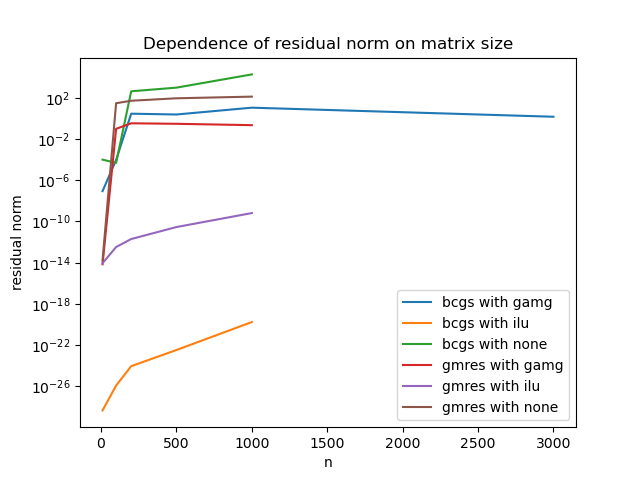
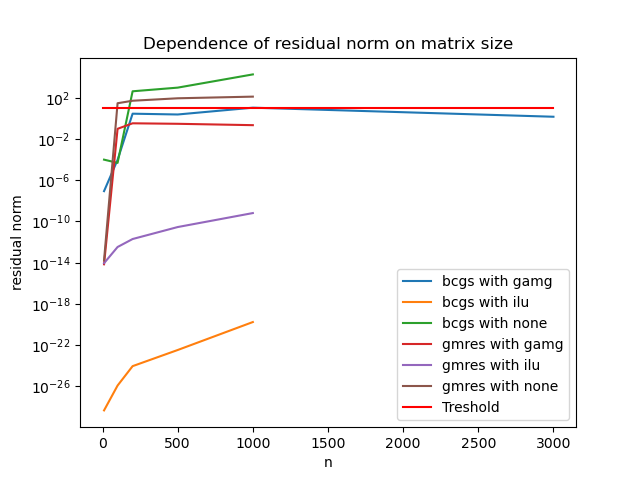
Bug fix

diff --git a/display_results.py b/display_results.py
@@ -83,25 +83,30 @@ def get_title(prop):
         title = "residual norm"
     return title
 
-def draw_results_changing_n(plot_data, logscale=True):
+def draw_results_changing_n(plot_data, logscale=True,treshold=True):
     for prop in ["time","num_of_iterations","residual_norm"]:
         title=get_title(prop)
+        max_n=0
         for item in plot_data:
             data = item["data"]
-            if logscale:
-                plt.yscale("log")
             tmp_dict={el["n"]:el[prop] for el in data}
             tmp_list=sorted(tmp_dict.items())
             x, y = zip(*tmp_list)
             # TO NOT SHOW ONE-POINT RESULTS
             # if len(x)>1:
-                # plt.plot(x,y, label=item["method"]+" with "+item["preconditioner"] +" preconditioner")
+            # plt.plot(x,y, label=item["method"]+" with "+item["preconditioner"] +" preconditioner")
             plt.plot(x,y, label=item["method"]+" with "+item["preconditioner"])
-            plt.legend(fontsize="10")
             # plt.legend(loc='upper left', bbox_to_anchor=(1, 1))
+            max_n=max(max_n,max(list(tmp_dict.keys())))
+            print(list(tmp_dict.keys()))
+        if treshold and prop == "residual_norm":
+            plt.plot([0,max_n],[RESIDUAL_NORM_TRESHOLD,RESIDUAL_NORM_TRESHOLD],"red",label="Treshold")
+        if logscale:
+            plt.yscale("log")
         plt.title(f"Dependence of {title} on matrix size")
         plt.xlabel("n")
         plt.ylabel(title)
+        plt.legend(fontsize="10")
         plt.savefig(DIRECTORY_TO_SAVE+"/"+title)
         plt.show()
 
@@ -123,7 +128,7 @@ def draw_results_static_n(plot_data, logscale_time=True,logscale_residual=True,t
             plt.xscale("log")
         if logscale_residual:
             plt.yscale("log")
-        print(max_time)
+        # print(max_time)
         if treshold:
             plt.plot([0,max_time],[RESIDUAL_NORM_TRESHOLD,RESIDUAL_NORM_TRESHOLD],"red",label="Treshold")
         plt.legend(fontsize="10")
@@ -162,7 +167,7 @@ def main():
         results=get_results()
         if FILTER_NOT_CONVERGENCE:
             results=filter_non_convergence(results)
-        draw_results_changing_n(results, logscale=True)
+        draw_results_changing_n(results, logscale=True,treshold=True)
         draw_results_static_n(results,logscale_time=False,logscale_residual=True,treshold=True)
         print(f"{'With' if FILTER_NOT_CONVERGENCE else 'Without'} filtering out non-convergence results")
         print_results(results)

diff --git a/main.py b/main.py
@@ -27,14 +27,14 @@ N=[10,100.250,500,1000,2000,3000,5000]#matrix size
 # https://petsc.org/release/overview/linear_solve_table/
 # RESIDUAL_NORM_TRESHOLD=1e-2
 PARAMS= [
-        # {"method":"CG","preconditioner":"GAMG"},
-        {"method":"BCGS","preconditioner":"GAMG"},
-        {"method":"GMRES","preconditioner":"GAMG"},
-        {"method":"GMRES","preconditioner":"ILU"},
-        {"method": "BCGS", "preconditioner": "ILU"},
-        {"method":"GMRES","preconditioner":"NONE"},
-        {"method":"BCGS","preconditioner":"NONE"},
-         ]
+    {"method":"BCGS","preconditioner":"GAMG"},
+    {"method":"GMRES","preconditioner":"GAMG"},
+    {"method":"GMRES","preconditioner":"ILU"},
+    {"method": "BCGS", "preconditioner": "ILU"},
+    {"method":"GMRES","preconditioner":"NONE"},
+    {"method":"BCGS","preconditioner":"NONE"},
+    # {"method":"CG","preconditioner":"GAMG"}
+]
 for n in N:
     for param in PARAMS:
         print(param,f"of size n={n} begins at {datetime.now()}")

diff --git a/slae_testing.py b/slae_testing.py
@@ -3,7 +3,7 @@ import sys
 from contextlib import redirect_stdout
 import numpy as np
 import time
-from main import RESIDUAL_NORM_TRESHOLD
+from constants import RESIDUAL_NORM_TRESHOLD
 
 def run_test(n,seed,parameters):
     file_name=f"./results/n{n}_s{seed}_met{parameters['method']}_prec{parameters['preconditioner']}"
